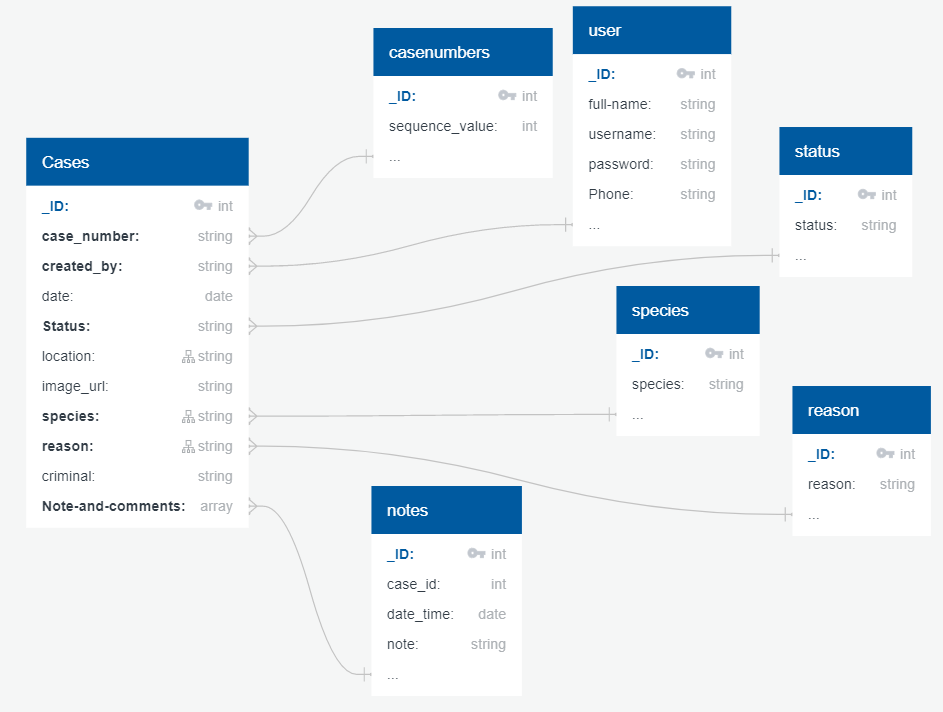
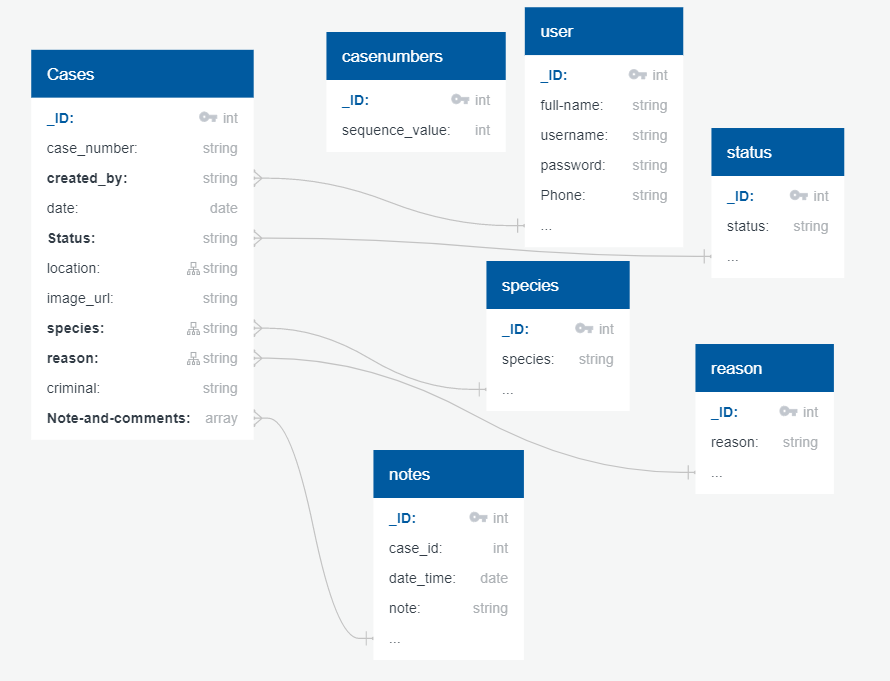
docs db flowchart explanation updated

diff --git a/README.md b/README.md
@@ -138,11 +138,15 @@ The page content is dynamic and composed of Jinja templates which are put togeth
 
 ![DB schema chart](wireframe/db-flowchart.png)
 
+The above diagram is just a visual guide of the database. The tables do not have forced relationships, as MongoDB is a non relational database. But some values in the cases table can linked to other tables which are used for dropdown lists on the cases input form.
+
+I should mention the user is allowed to input species or reasons that doesn't appear on lists. Other fields are locked in to the list values in the associated tables. But can be over-riden by the MongoDB administrator in the background if needed.
+
 ##### cases table
 
 ```bash
 _ID: (auto-generated by MongoDB) ObjectId PRIMARY KEY (Not changeable)
-case_number: (auto-generated and used as reference for the case) STRING (INDEXED FIELD) (Not changeable)
+case_number: (auto-generated and used as reference for the case) STRING (INDEXED FIELD) (Not changeable) Value taken from casenumbers table sequence_value
 created_by: (username from logged in session) STRING
 date: date
 Status: STRING
